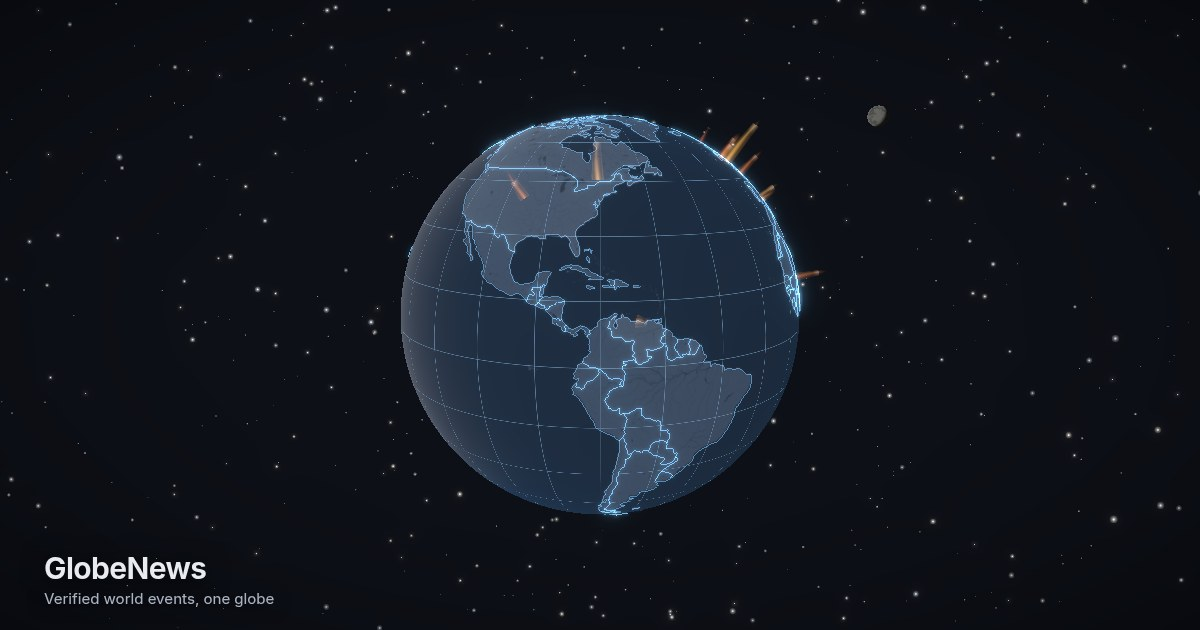
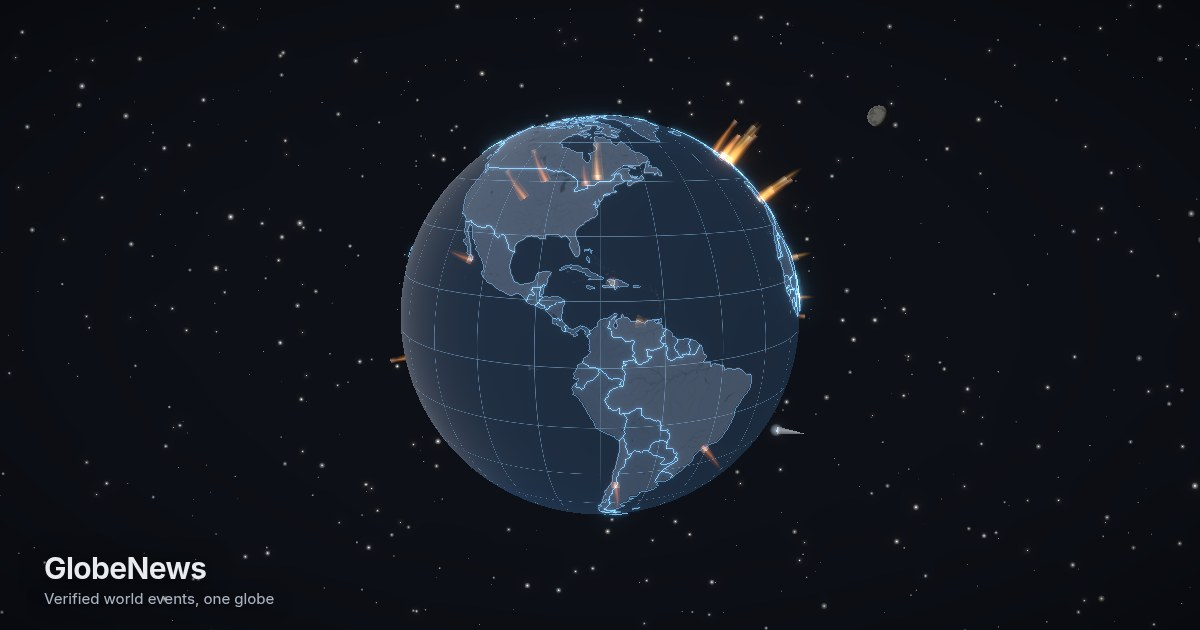
Give the ship a life, pull the camera back on phones, refresh the news
Three things from the phone screenshot.

The ship is always there now. It used to be a scheduled straight line far
behind the planet, absent for two minutes at a time; it now wanders the
whole view continuously, crossing in front of the globe as well as behind
it. That only works because its size is clamped in pixels rather than
world units — the same hull at the near end of its depth range would be a
few hundred pixels of spaceship across the middle of the map. Held between
14 and 30px it keeps a hint of parallax and can never take over the frame.

Its path is expressed in the camera's own frame rather than world
coordinates, and that is a deliberate trade. A world-fixed wanderer spends
most of its life outside the frustum — badly so on a phone, where the
horizontal field of view is about eleven degrees — and a ship you glimpse
once a minute is exactly what we were moving away from. Anchoring to the
view is what makes "always there" true; the depth sweep is what carries it
past the planet and back.

Personality is all in the motion: it drifts, then bursts forward every
~48s with the engine flaring, flutters constantly like something small
holding a heading in a breeze, and banks into its own turns.

One thing the crossings exposed: the engine glow was warm orange, which is
now exactly what a severity marker looks like, so a ship over the globe
read as a story that wasn't there. Ambient lights are cool from here on —
[…]

diff --git a/frontend/src/scene/Ambience.tsx b/frontend/src/scene/Ambience.tsx
@@ -6,16 +6,15 @@ import { prefersReducedMotion, useTheme } from '../store';
 
 /**
  * Things that are simply out there: two satellites in low orbit, a moon well
- * off in the dark, and a ship that crosses the far background every couple of
- * minutes. Nothing here is data — it exists so the sky around the planet is a
- * place rather than a void.
+ * off in the dark, and a ship going about its business. Nothing here is data
+ * — it exists so the sky around the planet is a place rather than a void.
  *
  * The rules that keep it from becoming a distraction: everything is small
- * (the moon reads at roughly 15px, the ship at 16), slow, and dim enough to
- * sit under the bloom threshold; nothing crosses in front of the globe or the
- * UI; and nothing takes a pointer event, so a click always belongs to a
- * story. There are no lights in this scene, so each object shades itself from
- * the same SUN_DIRECTION the Earth uses.
+ * (the moon reads at roughly 15px, the ship between 14 and 28), slow enough
+ * to be scenery, and dim enough to sit under the bloom threshold; and nothing
+ * takes a pointer event, so a click always belongs to a story even when the
+ * ship is crossing the globe. There are no lights in this scene, so each
+ * object shades itself from the same SUN_DIRECTION the Earth uses.
  */
 
 /* — self-shading material: the only lighting model in the scene — */
@@ -142,7 +141,9 @@ function Satellite({ orbit, brightness }: { orbit: Orbit; brightness: number }) 
       panel: sunlitMaterial('#1c3054', 0.12),
       beaconMaterial: new THREE.SpriteMaterial({
         map: glowTexture(),
-        color: new THREE.Color('#ffd9a0'),
+        // cool, not warm: severity markers own the warm end of the palette now,
+        // and a warm blink over the globe reads as a story that isn't there
+        color: new THREE.Color('#dceaff'),
         transparent: true,
         depthWrite: false,
         blending: THREE.AdditiveBlending,
@@ -226,28 +227,73 @@ function Moon({ brightness }: { brightness: number }) {
   );
 }
 
-/** First pass shortly after arrival, then every two to three minutes. */
-const SHIP_FIRST_DELAY = 45;
-const SHIP_GAP = 120;
-const SHIP_GAP_JITTER = 60;
-const SHIP_DURATION = 20;
-/** How far past the globe the flight path sits, and how far off the planet's disc. */
-const SHIP_DEPTH = 22;
-const SHIP_OFFSET = 7.5;
-const SHIP_HALF_SPAN = 11;
+/**
+ * The ship's shape, in world units before the on-screen size clamp below.
+ * Nose along +Z, which is where `lookAt` points.
+ */
+const SHIP_LENGTH = 0.4;
+/** On-screen length it is held between, in CSS pixels. */
+const SHIP_MIN_PX = 14;
+const SHIP_MAX_PX = 30;
+/** Path units per second at rest; a burst multiplies this. */
+const SHIP_BASE_SPEED = 0.16;
+/** Lookahead used to derive heading and turn rate from the path. */
+const SHIP_STEP = 0.03;
 
+/**
+ * Where the ship sits at path position `s`, as a point in the camera's own
+ * frame: `x` and `y` are fractions of the visible half-width and half-height,
+ * and `depth` is a multiple of the camera's distance to the globe.
+ *
+ * Anchoring to the view rather than to world coordinates is what makes "always
+ * there" true. A world-fixed wanderer spends most of its life outside the
+ * frustum — badly so on a phone, where the horizontal field of view is about
+ * eleven degrees — and a ship you only glimpse once a minute is the thing we
+ * were trying to get away from. Kept inside ±0.9 it is always somewhere on
+ * screen; the depth sweep is what carries it in front of the planet and back
+ * behind it.
+ */
+function shipViewPoint(s: number): { x: number; y: number; depth: number } {
+  return {
+    // biased right of centre so it does not spend its time hidden behind the
+    // rail on a desktop layout
+    x: 0.2 + 0.62 * Math.sin(0.37 * s) * Math.cos(0.19 * s + 0.7),
+    y: 0.52 * Math.sin(0.29 * s + 1.3) + 0.18 * Math.sin(0.71 * s),
+    // 0.42x to 1.45x the camera's distance: well in front of the globe's near
+    // face at one end, comfortably behind its centre at the other
+    depth: 0.935 + 0.515 * Math.sin(0.13 * s + 0.4),
+  };
+}
+
+/**
+ * A small craft going about its business, always somewhere in frame.
+ *
+ * It used to be a scheduled straight line far behind the planet, absent most
+ * of the time. Now it roams the whole view — including across the globe —
+ * which only works because its size is clamped in *pixels*: the same hull at
+ * the near end of its depth range would otherwise be a few hundred pixels of
+ * spaceship across the middle of the map. Held between 14 and 30px it keeps a
+ * hint of parallax and can never take over the frame.
+ *
+ * Personality is all in the motion: it drifts, then bursts forward with the
+ * engine flaring, flutters constantly like something small holding a heading
+ * in a breeze, and banks into its own turns.
+ */
 function Ship({ brightness }: { brightness: number }) {
   const group = useRef<THREE.Group>(null);
   const engine = useRef<THREE.Sprite>(null);
-  const flight = useRef<{ from: THREE.Vector3; to: THREE.Vector3; start: number } | null>(null);
-  const nextLaunch = useRef(SHIP_FIRST_DELAY);
+  /** Distance travelled along the path, advanced at a variable rate. */
+  const pathPos = useRef(Math.random() * 40);
+  const bankRef = useRef(0);
 
   const { hull, engineMaterial } = useMemo(
     () => ({
       hull: sunlitMaterial('#b9c1cc', 0.2),
       engineMaterial: new THREE.SpriteMaterial({
         map: glowTexture(),
-        color: new THREE.Color('#ffb36b'),
+        // same rule as the satellite beacons: ambient lights are cool so they
+        // are never mistaken for a marker when the ship crosses the planet
+        color: new THREE.Color('#cfe6ff'),
         transparent: true,
         depthWrite: false,
         blending: THREE.AdditiveBlending,
@@ -262,70 +308,96 @@ function Ship({ brightness }: { brightness: number }) {
 
   const scratch = useMemo(
     () => ({
-      dir: new THREE.Vector3(),
       right: new THREE.Vector3(),
       up: new THREE.Vector3(),
-      anchor: new THREE.Vector3(),
-      ahead: new THREE.Vector3(),
+      forward: new THREE.Vector3(),
+      here: new THREE.Vector3(),
+      next: new THREE.Vector3(),
+      after: new THREE.Vector3(),
+      heading: new THREE.Vector3(),
+      turn: new THREE.Vector3(),
+      lateral: new THREE.Vector3(),
     }),
     [],
   );
 
-  useFrame((state) => {
-    if (!group.current) return;
-    if (prefersReducedMotion) {
-      group.current.visible = false;
-      return;
-    }
-    const now = state.clock.elapsedTime;
+  useFrame((state, delta) => {
+    const ship = group.current;
+    if (!ship) return;
+    const t = state.clock.elapsedTime;
+    const camera = state.camera as THREE.PerspectiveCamera;
 
-    if (!flight.current && now >= nextLaunch.current) {
-      // The path is laid out from where the camera is looking *at launch* and
-      // then fixed in world space, so turning the globe mid-flight moves past
-      // the ship the way it would move past anything else out there.
-      const camera = state.camera;
-      camera.getWorldDirection(scratch.dir);
-      scratch.right.setFromMatrixColumn(camera.matrixWorld, 0).normalize();
-      scratch.up.setFromMatrixColumn(camera.matrixWorld, 1).normalize();
-      scratch.anchor
-        .copy(scratch.dir)
-        .multiplyScalar(SHIP_DEPTH)
-        .addScaledVector(scratch.up, SHIP_OFFSET * (Math.random() < 0.5 ? 1 : -1));
-      flight.current = {
-        from: scratch.anchor.clone().addScaledVector(scratch.right, -SHIP_HALF_SPAN),
-        to: scratch.anchor.clone().addScaledVector(scratch.right, SHIP_HALF_SPAN),
-        start: now,
-      };
+    // A burst every ~48s: mostly nothing, then a sharp couple of seconds at ~4x.
+    const burst = prefersReducedMotion
+      ? 0
+      : Math.pow(Math.max(Math.sin(0.13 * t + 2.1), 0), 8) * 3;
+    if (!prefersReducedMotion) {
+      pathPos.current += delta * SHIP_BASE_SPEED * (1 + burst);
     }
+    const s = pathPos.current;
 
-    const active = flight.current;
-    if (!active) {
-      group.current.visible = false;
-      return;
-    }
+    // the camera's own frame, which the path is expressed in
+    scratch.right.setFromMatrixColumn(camera.matrixWorld, 0).normalize();
+    scratch.up.setFromMatrixColumn(camera.matrixWorld, 1).normalize();
+    camera.getWorldDirection(scratch.forward);
+    const camDistance = camera.position.length();
+    const tanHalf = Math.tan(THREE.MathUtils.degToRad(camera.fov) / 2);
 
-    const t = (now - active.start) / SHIP_DURATION;
-    if (t >= 1) {
-      flight.current = null;
-      nextLaunch.current = now + SHIP_GAP + Math.random() * SHIP_GAP_JITTER;
-      group.current.visible = false;
-      return;
-    }
+    const place = (at: number, out: THREE.Vector3) => {
+      const p = shipViewPoint(at);
+      const depth = p.depth * camDistance;
+      const halfHeight = depth * tanHalf;
+      const halfWidth = halfHeight * camera.aspect;
+      return out
+        .copy(camera.position)
+        .addScaledVector(scratch.forward, depth)
+        .addScaledVector(scratch.right, p.x * halfWidth)
+        .addScaledVector(scratch.up, p.y * halfHeight);
+    };
 
-    group.current.visible = true;
-    group.current.position.lerpVectors(active.from, active.to, t);
-    scratch.ahead.lerpVectors(active.from, active.to, Math.min(t + 0.01, 1));
-    group.current.lookAt(scratch.ahead);
+    place(s, scratch.here);
+    place(s + SHIP_STEP, scratch.next);
+    place(s + SHIP_STEP * 2, scratch.after);
+
+    // hold a near-constant size on screen, whatever the depth
+    const distance = camera.position.distanceTo(scratch.here);
+    const worldPerPixel = (2 * distance * tanHalf) / state.size.height;
+    const naturalPx = SHIP_LENGTH / worldPerPixel;
+    const targetPx = Math.min(Math.max(naturalPx, SHIP_MIN_PX), SHIP_MAX_PX);
+    const scale = targetPx / naturalPx;
+    ship.scale.setScalar(scale);
+
+    // flutter, sized against the ship rather than the world, so the wobble
+    // reads the same whether it is near or far
+    const wobble = prefersReducedMotion ? 0 : SHIP_LENGTH * scale * 0.4;
+    scratch.here.addScaledVector(scratch.right, Math.sin(11.3 * t) * wobble);
+    scratch.here.addScaledVector(scratch.up, Math.sin(9.7 * t + 1.2) * wobble);
+    ship.position.copy(scratch.here);
+
+    // heading from the path itself, then bank into the turn
+    scratch.heading.subVectors(scratch.next, scratch.here).normalize();
+    ship.lookAt(scratch.next);
+    scratch.turn.subVectors(scratch.after, scratch.next).normalize().sub(scratch.heading);
+    scratch.lateral.crossVectors(scratch.heading, scratch.up).normalize();
+    const targetBank =
+      Math.min(Math.max(scratch.turn.dot(scratch.lateral) * 22, -1.1), 1.1) +
+      (prefersReducedMotion ? 0 : Math.sin(7.9 * t) * 0.14);
+    bankRef.current += (targetBank - bankRef.current) * Math.min(delta * 3, 1);
+    ship.rotateZ(bankRef.current);
+
     if (engine.current) {
-      engine.current.material.opacity = brightness * (0.8 + 0.2 * Math.sin(now * 23));
+      // the engine is how a burst reads: brighter and bigger while it runs
+      const flicker = prefersReducedMotion ? 1 : 0.8 + 0.2 * Math.sin(t * 23);
+      engine.current.material.opacity = Math.min(brightness * flicker * (0.55 + burst * 0.5), 1);
+      engine.current.scale.setScalar(0.16 * (1 + burst * 0.9));
     }
   });
 
   return (
-    <group ref={group} visible={false}>
+    <group ref={group}>
       {/* nose along +Z, which lookAt points down the flight path */}
       <mesh material={hull} rotation={[Math.PI / 2, 0, 0]} raycast={noRaycast}>
-        <coneGeometry args={[0.05, 0.4, 6]} />
+        <coneGeometry args={[0.05, SHIP_LENGTH, 6]} />
       </mesh>
       <mesh material={hull} raycast={noRaycast}>
         <planeGeometry args={[0.22, 0.09]} />

diff --git a/frontend/src/scene/SceneRoot.tsx b/frontend/src/scene/SceneRoot.tsx
@@ -11,7 +11,16 @@ import { Pins } from './Pins';
 import { Ambience } from './Ambience';
 import { CameraRig } from './CameraRig';
 import { Effects } from './Effects';
-import { useGlobeStore, useTheme } from '../store';
+import { narrowViewport, useGlobeStore, useTheme } from '../store';
+
+/**
+ * Opening framing. The phone value is the same direction 30% further out: on
+ * a narrow screen the planet at the desktop distance fills the view edge to
+ * edge, leaving no space for it to be a planet in.
+ */
+const START_POSITION: [number, number, number] = narrowViewport
+  ? [1.495, 1.235, 5.59]
+  : [1.15, 0.95, 4.3];
 
 export function SceneRoot() {
   const select = useGlobeStore((s) => s.select);
@@ -22,7 +31,7 @@ export function SceneRoot() {
     <Canvas
       dpr={[1, 1.75]}
       // start well back so the whole planet reads as "Earth in space"
-      camera={{ position: [1.15, 0.95, 4.3], fov: 45, near: 0.1, far: 120 }}
+      camera={{ position: START_POSITION, fov: 45, near: 0.1, far: 120 }}
       gl={{ antialias: false, powerPreference: 'high-performance' }}
       onPointerMissed={() => select(null)}
       style={{ position: 'absolute', inset: 0, background: '#010204' }}

diff --git a/frontend/src/store.ts b/frontend/src/store.ts
@@ -133,3 +133,12 @@ export const prefersReducedMotion =
  */
 export const coarsePointer =
   typeof window !== 'undefined' && window.matchMedia?.('(pointer: coarse)').matches === true;
+
+/**
+ * A phone-shaped viewport. Same breakpoint the rail uses to become a drawer,
+ * so the layout and the camera's opening framing agree about what "small
+ * screen" means. Read once, like the flags above; the camera is only seeded
+ * from it and the viewer can zoom wherever they like afterwards.
+ */
+export const narrowViewport =
+  typeof window !== 'undefined' && window.matchMedia?.('(max-width: 900px)').matches === true;
